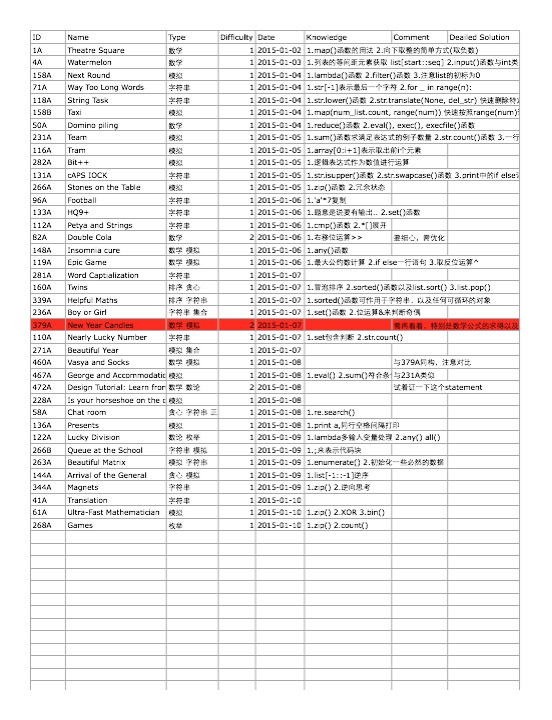
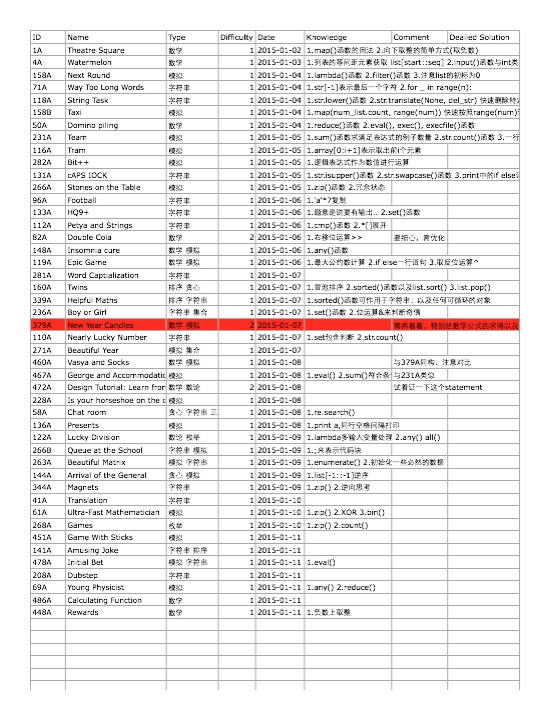
happy coding

diff --git a/69A.py b/69A.py
@@ -1,0 +1,22 @@
+# -*- coding: utf-8 -*-
+"""
+Created on Sun Jan 11 16:10:32 2015
+
+@author: liuweizhi
+"""
+
+## version 1
+n=input();a=b=c=0;l=lambda x:x!=0
+for i in range(n):
+    x,y,z=map(int,raw_input().split())
+    a+=x;b+=y;c+=z
+print 'YNEOS'[(l(a) or l(b) or l(c))::2]
+
+## version 2
+print"YNEOS"[any(map(sum,zip(*[map(int,raw_input().split())for i in[0]*input()])))::2]
+
+## version 3
+f=lambda:map(int,raw_input().split())
+n=f()[0];a=[f() for i in range(n)]
+r=[reduce(lambda x,y:x+y,v,0) for v in zip(*a)]
+print 'NO' if any(r) else 'YES'

diff --git a/448A.py b/448A.py
@@ -1,0 +1,14 @@
+# -*- coding: utf-8 -*-
+"""
+Created on Sun Jan 11 16:39:39 2015
+
+@author: liuweizhi
+"""
+
+## version 1
+g=lambda x:-sum(map(int,raw_input().split()))/x*(-1) 
+print 'YNEOS'[g(5)+g(10)>input()::2]
+
+## version 2 (另类上取整)
+R=lambda:sum(map(int,raw_input().split()))
+print ['YES','NO'][(R()+4)/5+(R()+9)/10>input()]

diff --git a/141A.py b/141A.py
@@ -1,0 +1,12 @@
+# -*- coding: utf-8 -*-
+"""
+Created on Sun Jan 11 15:36:07 2015
+
+@author: liuweizhi
+"""
+
+## version 1
+print 'YNEOS'[''.join(sorted(raw_input()+raw_input()))!=''.join(sorted(raw_input()))::2]
+
+## version 2
+r=raw_input;s=sorted;print"YNEOS"[s(r()+r())!=s(r())::2]

diff --git a/486A.py b/486A.py
@@ -1,0 +1,14 @@
+# -*- coding: utf-8 -*-
+"""
+Created on Sun Jan 11 16:26:47 2015
+
+@author: liuweizhi
+"""
+
+## version 1
+n=input();k=(n-1)/2
+print n*(n+1)/2-2*(k+1)**2
+
+## version 2
+n = input()
+print (-1)**n*(n+1)/2

diff --git a/478A.py b/478A.py
@@ -1,0 +1,10 @@
+# -*- coding: utf-8 -*-
+"""
+Created on Sun Jan 11 15:47:30 2015
+
+@author: liuweizhi
+"""
+
+## version 1
+sum=eval(raw_input().replace(' ','+'))
+print [-1,sum/5][sum%5==0 and sum>0]

diff --git a/208A.py b/208A.py
@@ -1,0 +1,9 @@
+# -*- coding: utf-8 -*-
+"""
+Created on Sun Jan 11 15:59:55 2015
+
+@author: liuweizhi
+"""
+
+## version 1
+print ' '.join(filter(lambda x:x!='' ,raw_input().split('WUB')))

diff --git a/451A.py b/451A.py
@@ -1,0 +1,9 @@
+# -*- coding: utf-8 -*-
+"""
+Created on Sun Jan 11 15:20:40 2015
+
+@author: liuweizhi
+"""
+
+## version 1
+print 'MAaklsvhiakta'[min(map(int,raw_input().split()))%2::2]
